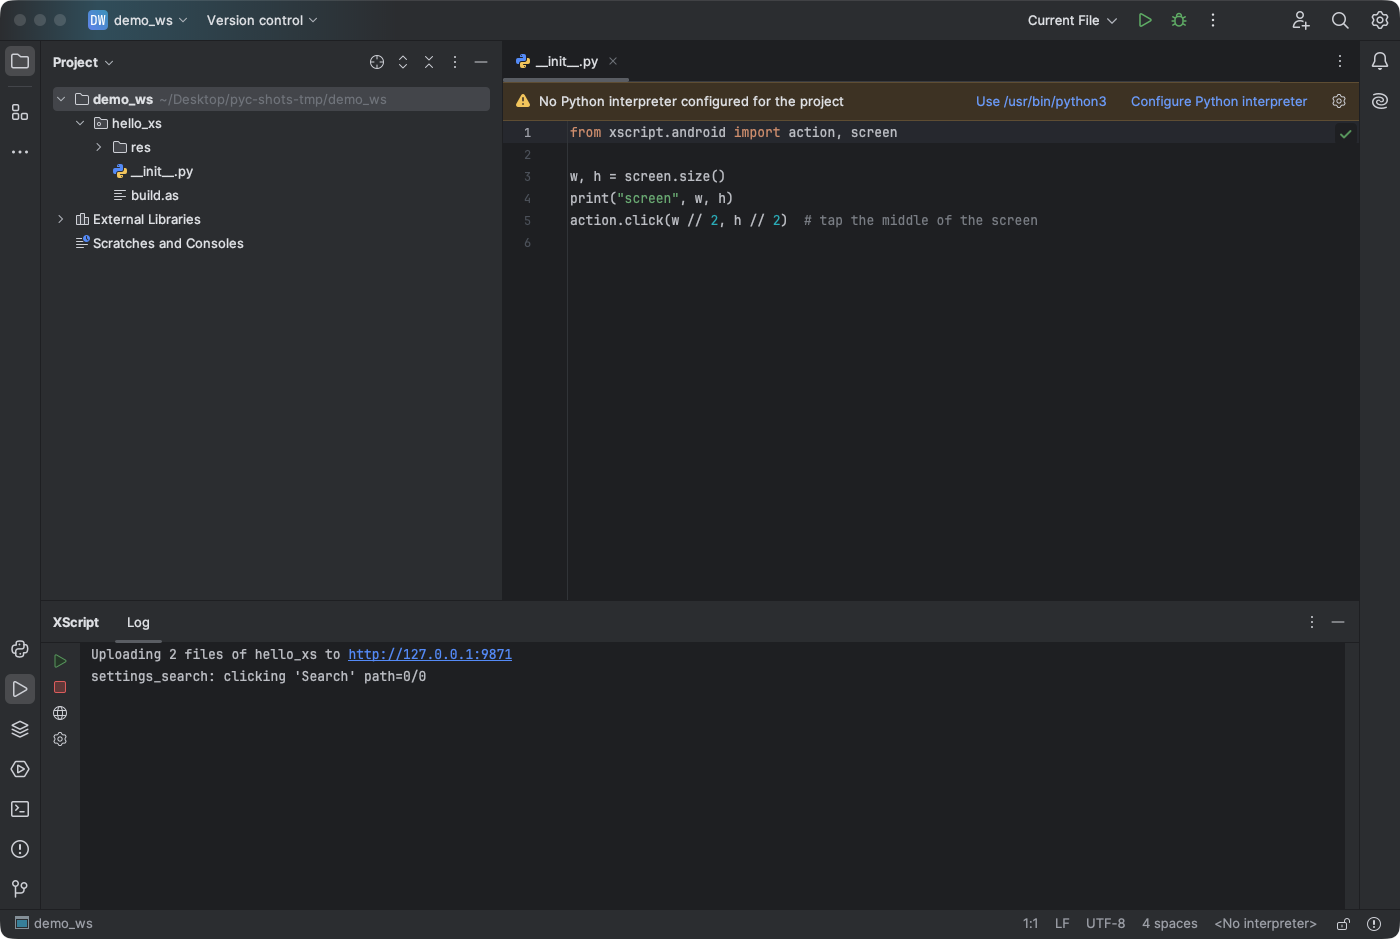
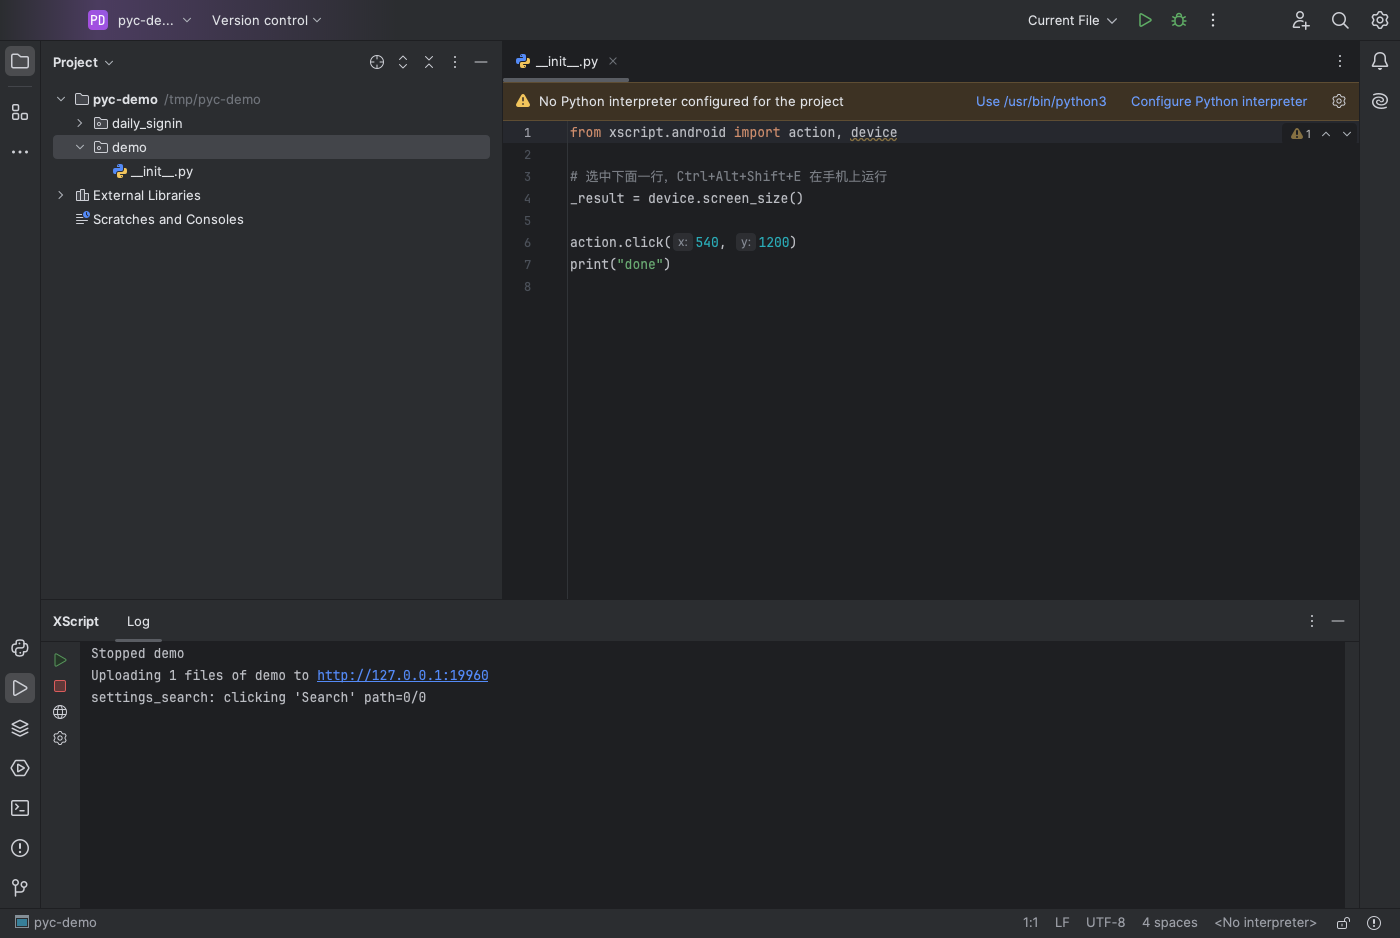
docs(pycharm): sandbox click-through demo modes eval/pull with in-IDE capture; new screenshots

diff --git a/ide/pycharm-plugin/src/main/kotlin/com/xscript/pycharm/ScreenshotDemoActivity.kt b/ide/pycharm-plugin/src/main/kotlin/com/xscript/pycharm/ScreenshotDemoActivity.kt
@@ -15,9 +15,10 @@ import java.nio.file.Path
 import java.util.concurrent.TimeUnit
 
 /**
- * Docs screenshots only. With -Dxscript.screenshotDemo=run|settings (set by `./gradlew runIde -PrunIdeScreenshotDemo=…`,
+ * Docs screenshots only. With -Dxscript.screenshotDemo=run|settings|eval|pull (set by `./gradlew runIde -PrunIdeScreenshotDemo=…`,
  * never in a normal IDE) it opens the first XScript project's __init__.py and runs Upload and Run (`run`), or opens
- * Settings | Tools | XScript (`settings`), so screenshots need no scripted mouse clicks. Does nothing otherwise.
+ * Settings | Tools | XScript (`settings`), selects the first `_result` line and runs Run Selection on Device (`eval`), or starts
+ * Pull Project from Device (`pull`, its project picker stays open), so screenshots need no scripted mouse clicks. Does nothing otherwise.
  */
 class ScreenshotDemoActivity : ProjectActivity {
     override suspend fun execute(project: Project) {
@@ -32,8 +33,12 @@ class ScreenshotDemoActivity : ProjectActivity {
                 ShowSettingsUtil.getInstance().showSettingsDialog(project, XScriptConfigurable::class.java)
                 return@invokeLater
             }
+            if (mode == "pull") {
+                XScriptService.get(project).pullProject()
+                return@invokeLater
+            }
             ToggleStubsAction.enable(project)
-            XScriptService.get(project).uploadAndRun(root)
+            if (mode == "run") XScriptService.get(project).uploadAndRun(root)
         }, project.disposed)
         // the IDE opens "What's New" and posts its own startup notifications a few seconds later: tidy up for the shot
         AppExecutorUtil.getAppScheduledExecutorService().schedule({
@@ -42,12 +47,69 @@ class ScreenshotDemoActivity : ProjectActivity {
                 fem.openFiles.filter { it != init }.forEach { fem.closeFile(it) }
                 init?.let { fem.openFile(it, true) }
                 NotificationsManager.getNotificationsManager().getNotificationsOfType(Notification::class.java, project).forEach { it.expire() }
-                if (mode == "run") ToolWindowManager.getInstance(project).getToolWindow(XScriptService.TOOL_WINDOW_ID)?.show()
+                if (mode == "eval") init?.let { file ->
+                    val editor = fem.selectedTextEditor ?: return@let
+                    val doc = editor.document
+                    val line = (0 until doc.lineCount).firstOrNull {
+                        doc.getText(com.intellij.openapi.util.TextRange(doc.getLineStartOffset(it), doc.getLineEndOffset(it))).contains("_result")
+                    } ?: return@let
+                    editor.selectionModel.setSelection(doc.getLineStartOffset(line), doc.getLineEndOffset(line))
+                    editor.caretModel.moveToOffset(doc.getLineEndOffset(line))
+                    editor.selectionModel.selectedText?.let { XScriptService.get(project).eval(it) }
+                }
+                if (mode == "run" || mode == "eval") ToolWindowManager.getInstance(project).getToolWindow(XScriptService.TOOL_WINDOW_ID)?.show()
             }, project.disposed)
         }, 12, TimeUnit.SECONDS)
+        // pull: press the project picker's default button so the flow runs to the end (the folder matches the picked name)
+        if (mode == "pull") AppExecutorUtil.getAppScheduledExecutorService().schedule({
+            app.invokeLater({ shoot(project, "picker"); pressDefaultButton() }, com.intellij.openapi.application.ModalityState.any())
+        }, 15, TimeUnit.SECONDS)
+        // pull: then confirm the overwrite prompt (shown when a local file differs) and capture the result
+        if (mode == "pull") AppExecutorUtil.getAppScheduledExecutorService().schedule({
+            app.invokeLater({ shoot(project, "overwrite"); pressDefaultButton() }, com.intellij.openapi.application.ModalityState.any())
+        }, 19, TimeUnit.SECONDS)
+        AppExecutorUtil.getAppScheduledExecutorService().schedule({
+            app.invokeLater({
+                if (mode == "pull") {
+                    val fem = FileEditorManager.getInstance(project)
+                    fem.openFiles.forEach { fem.closeFile(it) }
+                    val pulled = Files.list(base).use { st -> st.filter { Files.isDirectory(it) && it != root }.toList() }
+                        .firstNotNullOfOrNull { LocalFileSystem.getInstance().refreshAndFindFileByNioFile(it.resolve("__init__.py")) }
+                    pulled?.let {
+                        fem.openFile(it, true)
+                        com.intellij.ide.projectView.ProjectView.getInstance(project).select(null, it, false)
+                    }
+                    ToolWindowManager.getInstance(project).getToolWindow(XScriptService.TOOL_WINDOW_ID)?.show()
+                }
+            }, project.disposed)
+            AppExecutorUtil.getAppScheduledExecutorService().schedule({
+                app.invokeLater({ shoot(project, mode) }, com.intellij.openapi.application.ModalityState.any())
+            }, 2, TimeUnit.SECONDS)
+        }, 22, TimeUnit.SECONDS)
+    }
+
+    /** With -Dxscript.screenshotOut=<dir>: paints the frontmost IDE window (a dialog if one is open) into <dir>/<name>.png. */
+    private fun shoot(project: Project, name: String) {
+        val dir = System.getProperty("xscript.screenshotOut")?.let { Path.of(it) } ?: return
+        val window = java.awt.Window.getWindows().filter { it.isShowing && it is java.awt.Dialog }.lastOrNull()
+            ?: com.intellij.openapi.wm.WindowManager.getInstance().getFrame(project) ?: return
+        val scale = window.graphicsConfiguration.defaultTransform.scaleX
+        val img = java.awt.image.BufferedImage((window.width * scale).toInt(), (window.height * scale).toInt(), java.awt.image.BufferedImage.TYPE_INT_RGB)
+        val g = img.createGraphics()
+        g.scale(scale, scale)
+        window.printAll(g)
+        g.dispose()
+        Files.createDirectories(dir)
+        javax.imageio.ImageIO.write(img, "png", dir.resolve("$name.png").toFile())
+    }
+
+    private fun pressDefaultButton() {
+        val dialog = java.awt.Window.getWindows().filterIsInstance<javax.swing.JDialog>().lastOrNull { it.isShowing } ?: return
+        dialog.rootPane.defaultButton?.doClick()
     }
 
     companion object {
-        fun mode(): String? = System.getProperty("xscript.screenshotDemo")?.takeIf { it == "run" || it == "settings" }
+        fun mode(): String? = System.getProperty("xscript.screenshotDemo")?.takeIf { it in MODES }
+        private val MODES = setOf("run", "settings", "eval", "pull")
     }
 }

diff --git a/ide/pycharm-plugin/README.md b/ide/pycharm-plugin/README.md
@@ -8,9 +8,13 @@
 
 ![运行后底部 XScript 工具窗口实时输出日志](../../docs/images/pycharm-run.png)
 
-![Settings → Tools → XScript：设备地址和配对码](../../docs/images/pycharm-settings.png)
+![Settings → Tools → XScript：设备地址、配对码和运行选中代码超时](../../docs/images/pycharm-settings.png)
 
-（沙盒 PyCharm 2024.2.6，连接本机模拟设备 `scripts/mock_device.py`。）
+![选中一行按 Ctrl+Alt+Shift+E：代码和设备返回的结果显示在 XScript 工具窗口](../../docs/images/pycharm-eval.png)
+
+![Pull Project from Device：选择设备上的工程、确认覆盖后，拉取的文件出现在编辑器和工程树里，日志列出新增 / 更新数量](../../docs/images/pycharm-pull.png)
+
+（沙盒 PyCharm 2024.2.6，连接本机模拟设备 `scripts/mock_device.py`，结果是模拟数据。）
 
 ## 安装
 
@@ -55,5 +59,5 @@ cd ide/pycharm-plugin
 ```
 
 - 新建工程模板 `src/main/resources/templates.json` 是生成的：改 `ide/vscode-extension/src/newProject.ts` 后，在 `ide/vscode-extension` 里 `npm run compile && node scripts/export-templates.js`。CI 用 `--check` 检查。
-- 截图：先在 `.intellijPlatform/sandbox/xscript-pycharm/PC-2024.2.6/config_runIde/options/xscript.xml` 里把设备地址设为本机 mock 设备，再 `./gradlew runIde -PrunIdeProject=<演示工程> -PrunIdeHeadlessConsent -PrunIdeScreenshotDemo=run`（或 `settings`）。这两个开关只用于这个一次性的沙盒：跳过用户协议、自动打开演示工程并运行。
+- 截图：先在 `.intellijPlatform/sandbox/xscript-pycharm/PC-2024.2.6/config_runIde/options/xscript.xml` 里把设备地址设为本机 mock 设备，再 `./gradlew runIde -PrunIdeProject=<演示工程> -PrunIdeHeadlessConsent -PrunIdeScreenshotDemo=run -PrunIdeScreenshotOut=<目录>`（模式还有 `settings`、`eval`、`pull`）。这些开关只用于这个一次性的沙盒：跳过用户协议，打开演示工程，执行对应功能（`pull` 会自动按下选择和覆盖对话框的默认按钮；演示工程里要有与设备工程同名的文件夹），约 25 秒后把 IDE 窗口（有对话框时截对话框）存成 `<目录>/<模式>.png`，不需要系统录屏权限。
 - 本机没有系统 JDK 时可以用 Android Studio 自带的：`JAVA_HOME="/Applications/Android Studio.app/Contents/jbr/Contents/Home"`。

diff --git a/ide/pycharm-plugin/README.en.md b/ide/pycharm-plugin/README.en.md
@@ -6,9 +6,13 @@ It talks to the device HTTP API (`protocol/openapi.yaml`, default port 9860). On
 
 ![After a run the XScript tool window at the bottom shows the log live](../../docs/images/pycharm-run.png)
 
-![Settings → Tools → XScript: device address and pairing code](../../docs/images/pycharm-settings.png)
+![Settings → Tools → XScript: device address, pairing code and Run Selection timeout](../../docs/images/pycharm-settings.png)
 
-(Sandbox PyCharm 2024.2.6 connected to the local mock device `scripts/mock_device.py`.)
+![Select a line and press Ctrl+Alt+Shift+E: the code and the device's answer appear in the XScript tool window](../../docs/images/pycharm-eval.png)
+
+![Pull Project from Device: after picking a device project and confirming the overwrite, the pulled files show in the editor and project tree and the log counts new / updated files](../../docs/images/pycharm-pull.png)
+
+(Sandbox PyCharm 2024.2.6 connected to the local mock device `scripts/mock_device.py`; results are mock data.)
 
 ## Install
 
